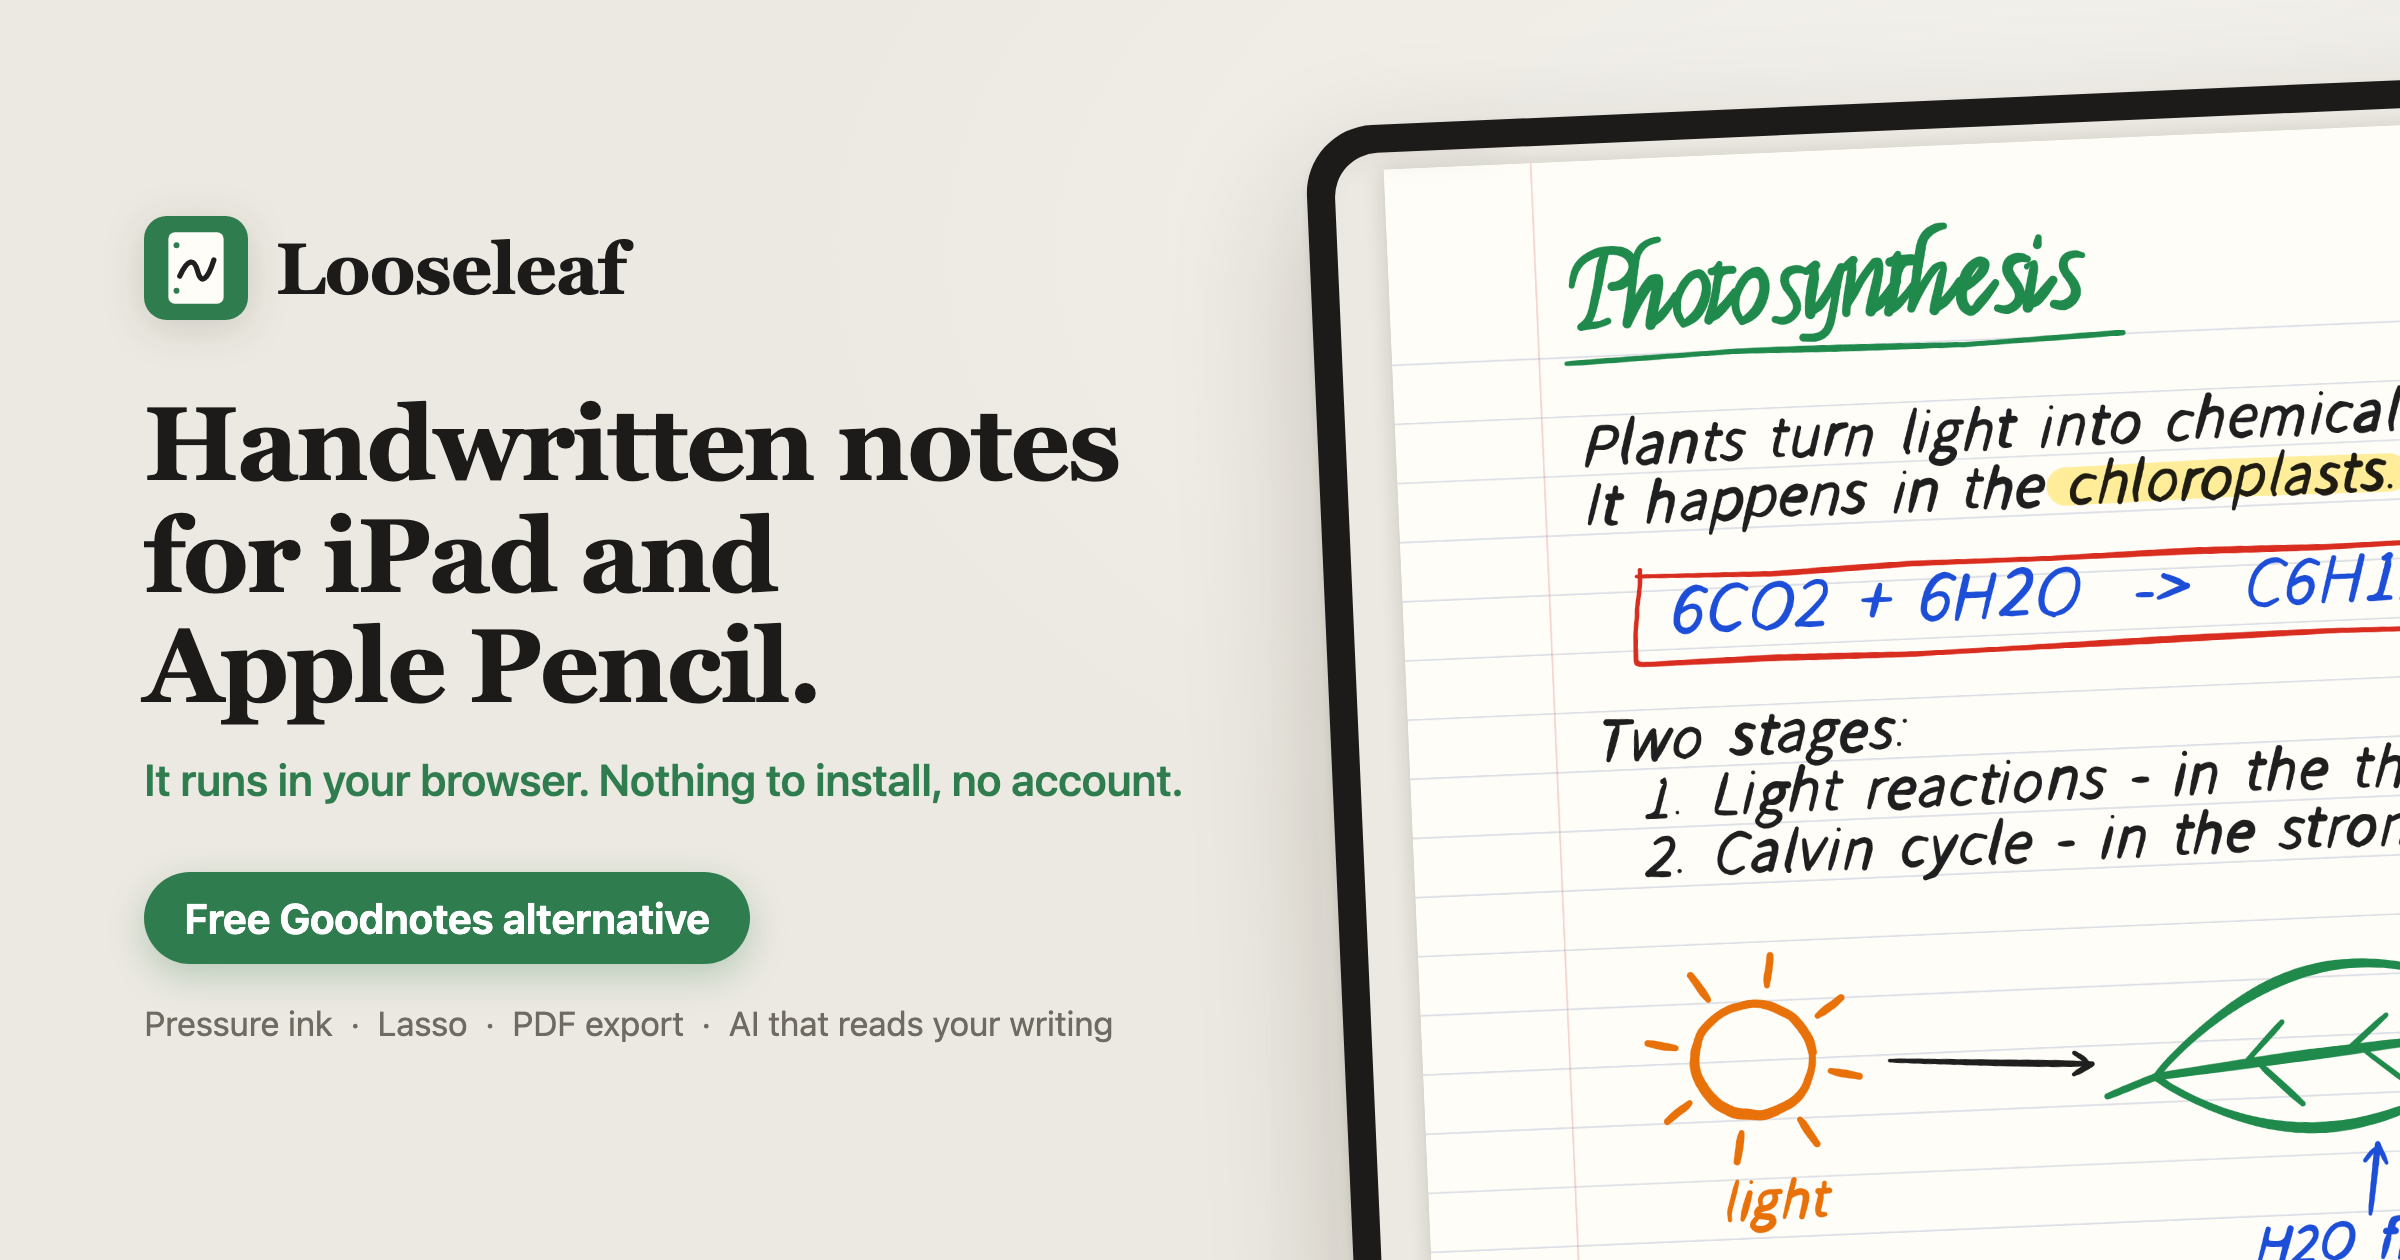
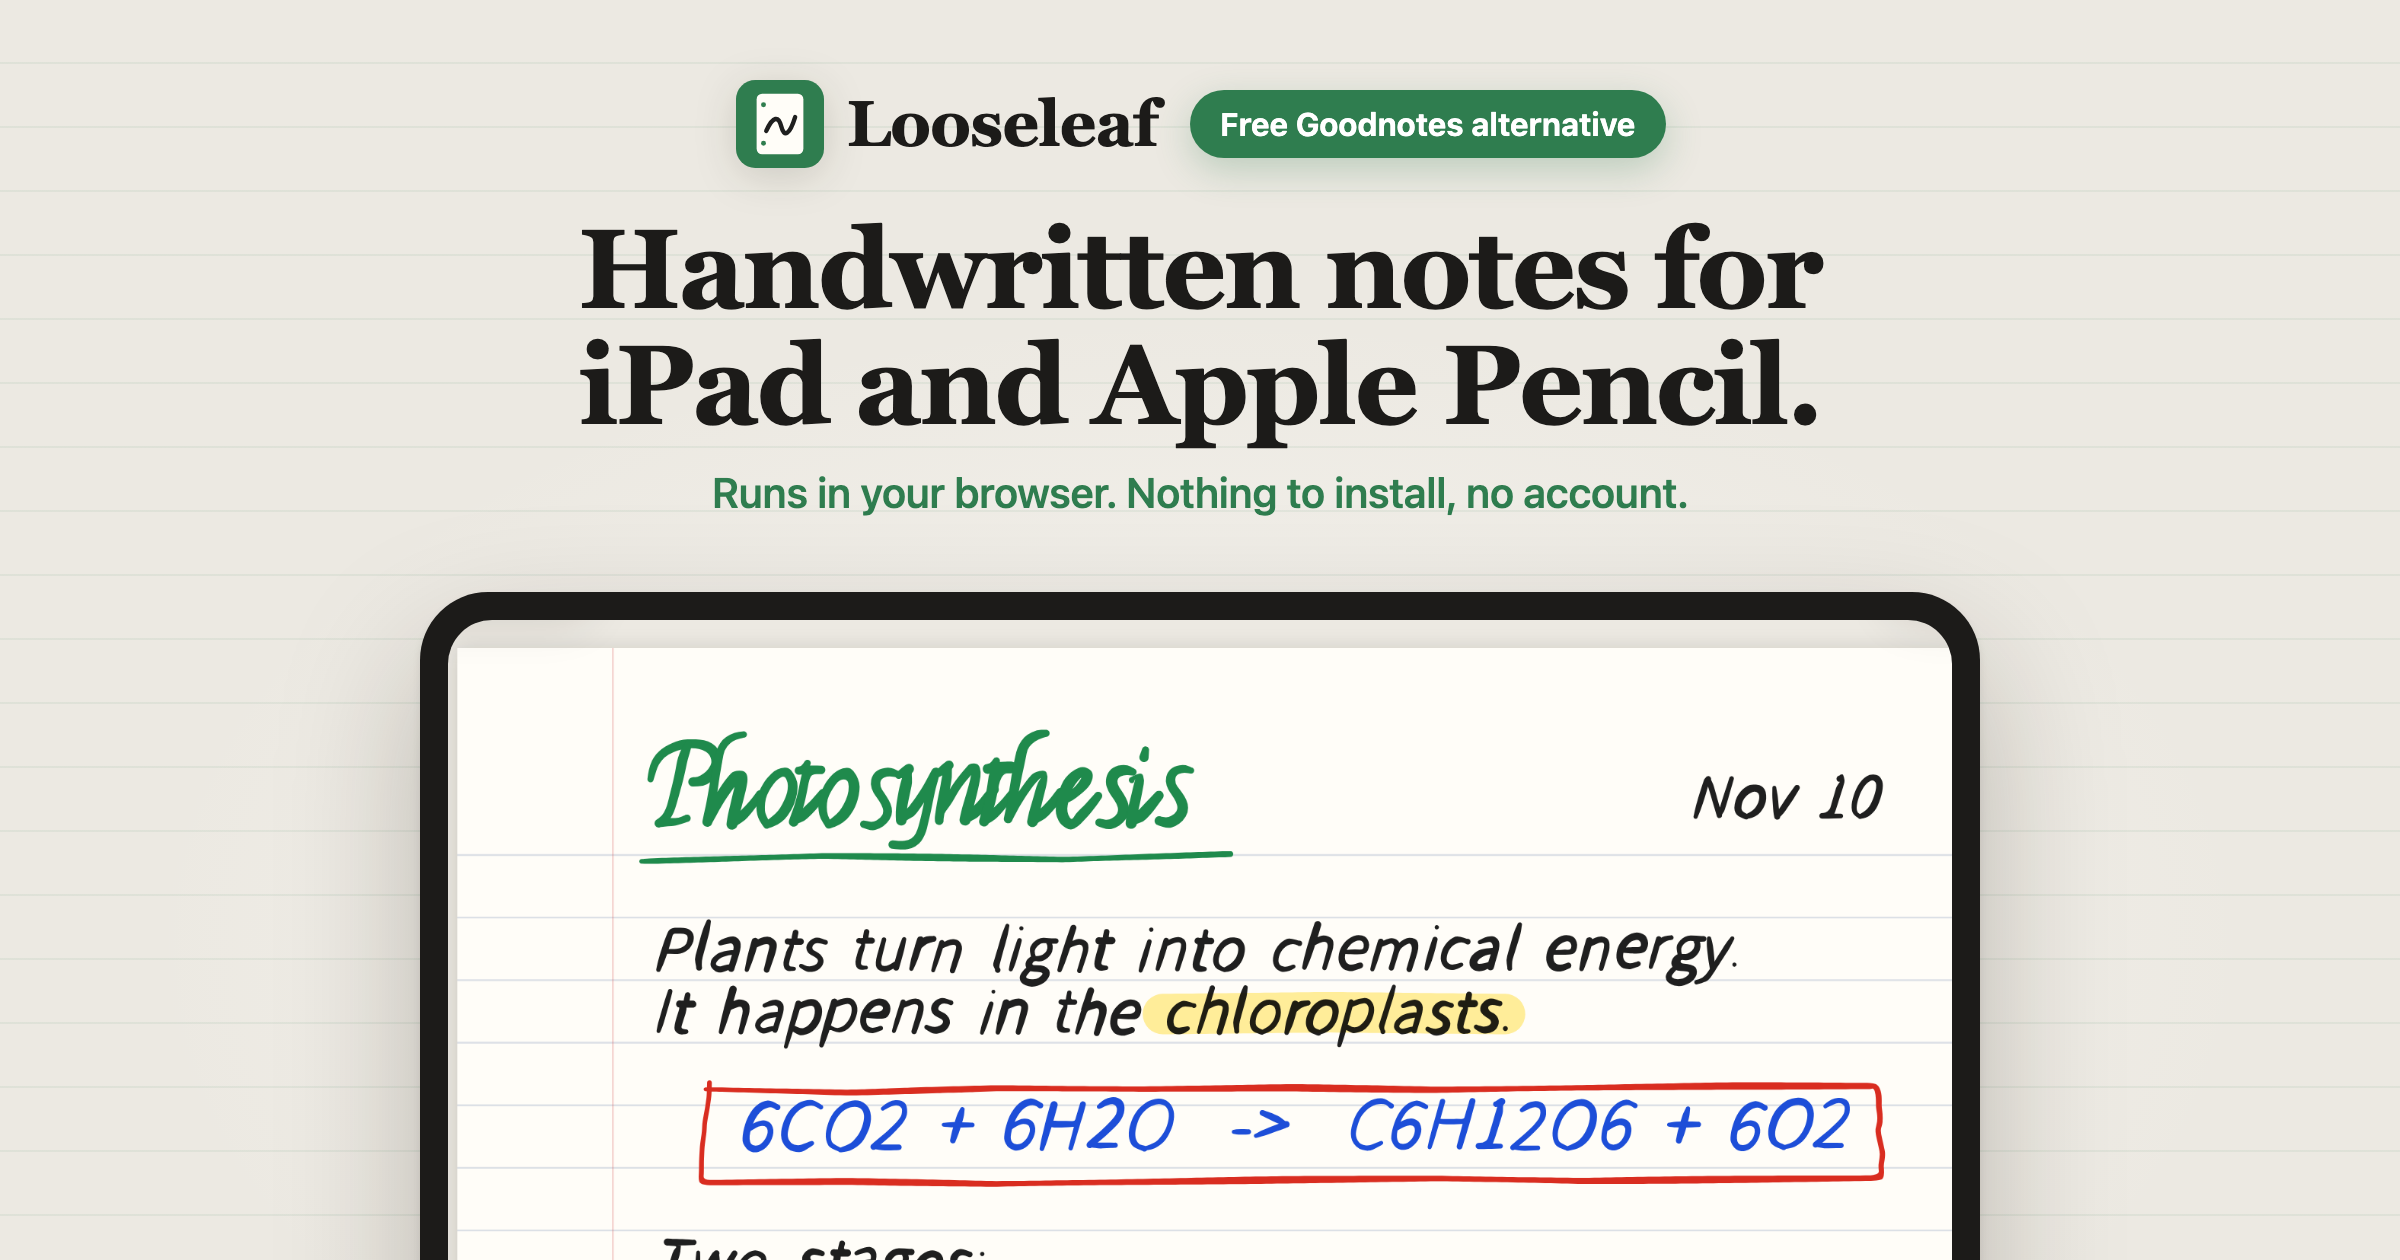
Prepare 0.1.2: centred cover that survives the Publik card crop

diff --git a/docs/media/src/cover.html b/docs/media/src/cover.html
@@ -1,0 +1,29 @@
+<!doctype html><html><head><meta charset="utf-8"><style>
+*{margin:0;box-sizing:border-box}
+html,body{width:1200px;height:630px;overflow:hidden}
+body{background:#ECE9E2;font-family:-apple-system,BlinkMacSystemFont,"Segoe UI",system-ui,sans-serif;color:#1C1B19;position:relative}
+.bg{position:absolute;inset:0;background:radial-gradient(700px 420px at 50% 75%,#F7F5F0 0,rgba(247,245,240,0) 75%)}
+.lines{position:absolute;inset:0;background:repeating-linear-gradient(to bottom,transparent 0 31px,rgba(47,125,79,.07) 31px 32px)}
+.top{position:absolute;left:0;right:0;top:40px;display:flex;flex-direction:column;align-items:center;text-align:center}
+.row{display:flex;align-items:center;gap:16px}
+.brand{display:flex;align-items:center;gap:12px}
+.brand svg{width:44px;height:44px;filter:drop-shadow(0 4px 10px rgba(30,24,10,.15))}
+.brand span{font-family:ui-serif,"New York",Georgia,serif;font-size:32px;font-weight:600;letter-spacing:-.01em}
+.badge{background:#2F7D4F;color:#fff;font-weight:650;font-size:16px;padding:8px 15px;border-radius:999px;box-shadow:0 6px 18px rgba(47,125,79,.25)}
+h1{font-family:ui-serif,"New York",Georgia,serif;font-size:56px;line-height:1.04;font-weight:600;letter-spacing:-.02em;margin-top:22px}
+.sub{margin-top:12px;font-size:21px;color:#2F7D4F;font-weight:550}
+.device{position:absolute;left:50%;top:296px;width:780px;height:560px;transform:translateX(-50%);border-radius:34px;background:#1C1B19;padding:14px;box-shadow:0 2px 4px rgba(30,24,10,.08),0 30px 70px rgba(30,24,10,.25)}
+.screen{width:100%;height:100%;border-radius:22px;overflow:hidden;background:#FFFDF8 url(notebook.png) no-repeat;background-size:1040px auto;background-position:-140px -50px}
+.pen{position:absolute;right:150px;top:300px;width:22px;height:340px;border-radius:11px;background:linear-gradient(90deg,#d9d6cf,#fbfaf7 45%,#cfccc4);transform:rotate(28deg);box-shadow:0 18px 30px rgba(30,24,10,.2)}
+.pen:after{content:"";position:absolute;left:3px;bottom:-26px;border-left:8px solid transparent;border-right:8px solid transparent;border-top:28px solid #e6e3dc}
+</style></head><body><div class="bg"></div><div class="lines"></div>
+<div class="top">
+  <div class="row">
+    <div class="brand"><svg viewBox="0 0 64 64"><rect width="64" height="64" rx="14" fill="#2F7D4F"/><rect x="15" y="10" width="34" height="44" rx="4" fill="#FFFDF8"/><path d="M22 37c5-11 9-11 11-3s6 6 10-7" fill="none" stroke="#1F1F1F" stroke-width="3.2" stroke-linecap="round" stroke-linejoin="round"/><circle cx="20" cy="18" r="1.8" fill="#2F7D4F"/><circle cx="20" cy="46" r="1.8" fill="#2F7D4F"/></svg><span>Looseleaf</span></div>
+    <div class="badge">Free Goodnotes alternative</div>
+  </div>
+  <h1>Handwritten notes for<br>iPad and Apple&nbsp;Pencil.</h1>
+  <p class="sub">Runs in your browser. Nothing to install, no account.</p>
+</div>
+<div class="device"><div class="screen"></div></div>
+</body></html>

diff --git a/lib/publik.ts b/lib/publik.ts
@@ -10,7 +10,7 @@ import { arch, homedir, hostname, platform } from "node:os";
 import { dirname, join } from "node:path";
 
 export const APP_SLUG = "looseleaf";
-export const APP_VERSION = "0.1.1";
+export const APP_VERSION = "0.1.2";
 export const DEFAULT_BASE_URL = "https://publikhq.com/api/v1";
 /** Ask for a tier, never a vendor model name. */
 export const MODELS = { fast: "publik-fast", balanced: "publik-balanced", smart: "publik-smart" } as const;
